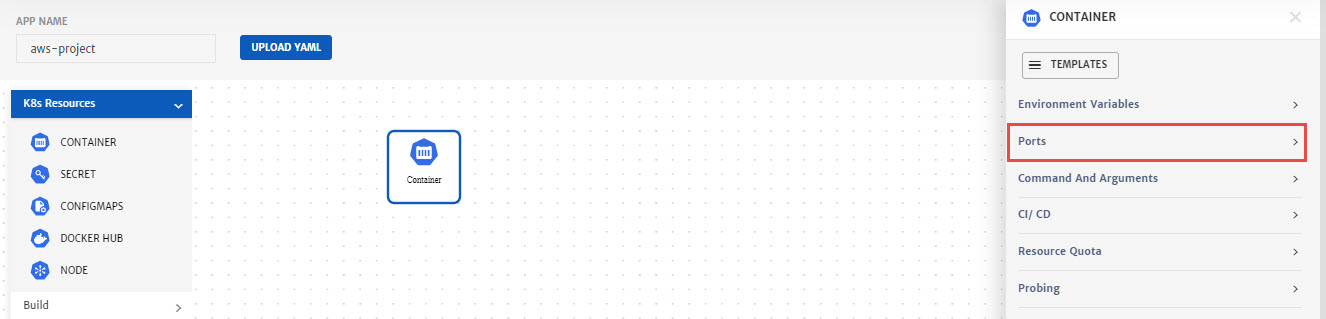
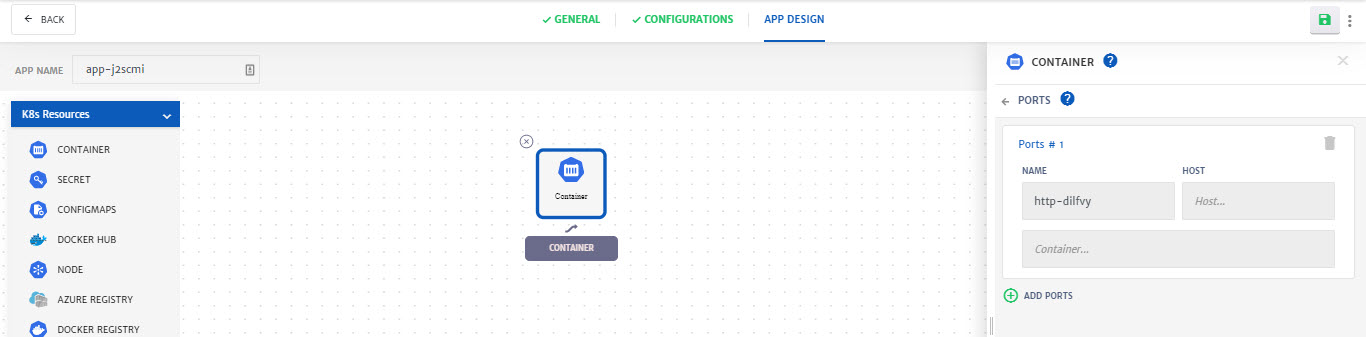
getting-started-updates

diff --git a/pages/user-guide/getting-started/getting-started.md b/pages/user-guide/getting-started/getting-started.md
@@ -39,6 +39,80 @@ CloudPlex offers 3 way of creating and deploying a new application on cloud base
 
 ![1.1](imgs\1.1.jpg)
 
+## Provider Managed - Create New Kubernetes Cluster
+
+1. **Select** Create New Kubernetes Cluster from Provided Managed section.  
+
+2. Configure the **General** tab. (Platform provides default values for most of the parameters)
+
+   - Select the **Cloud Provider** and specify necessary account details for the account. (For this guide we have selected Azure Kubernetes Service)
+
+   - Enter **Profile Name** and specify the Azure profile credentials (Client ID, Client Secret, Subscription ID, Tenant ID). You can also save this profile for future use. Credentials will be stored in vault i.e. Credentials Profile menu.
+
+     > **Note**: To know more about Credentials Profile menu, click [here](/pages/user-guide/components/credentials-profile/credentials-profile).
+     >
+     > **Note:** To perform different functions and to deploy application using CloudPlex, it is necessary to have required permissions on cloud. To know about all those permissions click [here.](pages/user-guide/components/cloud-authorization-level/cloud-authorization-level?id=cloud-authorization-level)
+
+   ![2](imgs/2.jpg)
+
+3. Click **Next** at the top right of screen.
+
+4. Configure Cluster.
+
+   - Enter **Cluster Name**.
+
+   - Select Machine Type from drop-down. (To know more about machine types click [here](https://azure.microsoft.com/en-us/pricing/details/virtual-machines/series/))
+
+     > Minimum 4 CPU machine is needed for deployment. 
+
+   - Specify **Node Count**.
+
+   - Enable **Custom Advance Settings** using radio button.
+
+   ![2.1](imgs/2.1.jpg)
+
+5. Click **Next** at the top right of screen.
+
+6. Design application using **App Designer**.
+
+   > **Note**: As part of this guide, we will only configure the minimum settings necessary to deploy the container. For detailed configurations, please check our detailed guide by clicking [here](/pages/user-guide/components/container-services/container-services).
+
+   - Drag and drop the **Container** in the package canvas from left column.
+
+   - Click on **Container** icon to configure the settings. (Platform has provided default values for most of the parameters) 
+
+     - Specify **Image Name** and **Tag**.
+     - Go to **Environment Variables** menu and add Variable. It is necessary to add at least one variable which in our case is **MYSQL_ROOT_PASSWORD**.
+
+     ![2.2](imgs/2.2.jpg)
+     ![2.3](imgs/2.3.jpg)
+
+     - Go to the **Ports**, click **Add Port** button and specify the port for Traffic i.e. **8080**
+
+     ![2.4](imgs/2.4.jpg)
+
+     - Click **Save.**
+
+7. Click **Save** (green floppy icon at the top right) to save the project.
+
+   ![2.5](imgs/2.5.jpg)
+
+8. Click the Project, you just created. 
+
+   ![aws3](imgs/3.jpg)
+
+9. Click **Start** to deploy the project
+
+   ![4](imgs/4.jpg)
+
+10. Once a project is deployed, go to the **Logs** tab to check the logs. 
+
+![5](imgs/5.jpg)
+
+11. To check in-depth flow of traffic, go to the **Monitoring** tab.
+
+![6](imgs\6.jpg)
+
 ## Quick Start
 
 1. **Select** Quick Start from options. 
